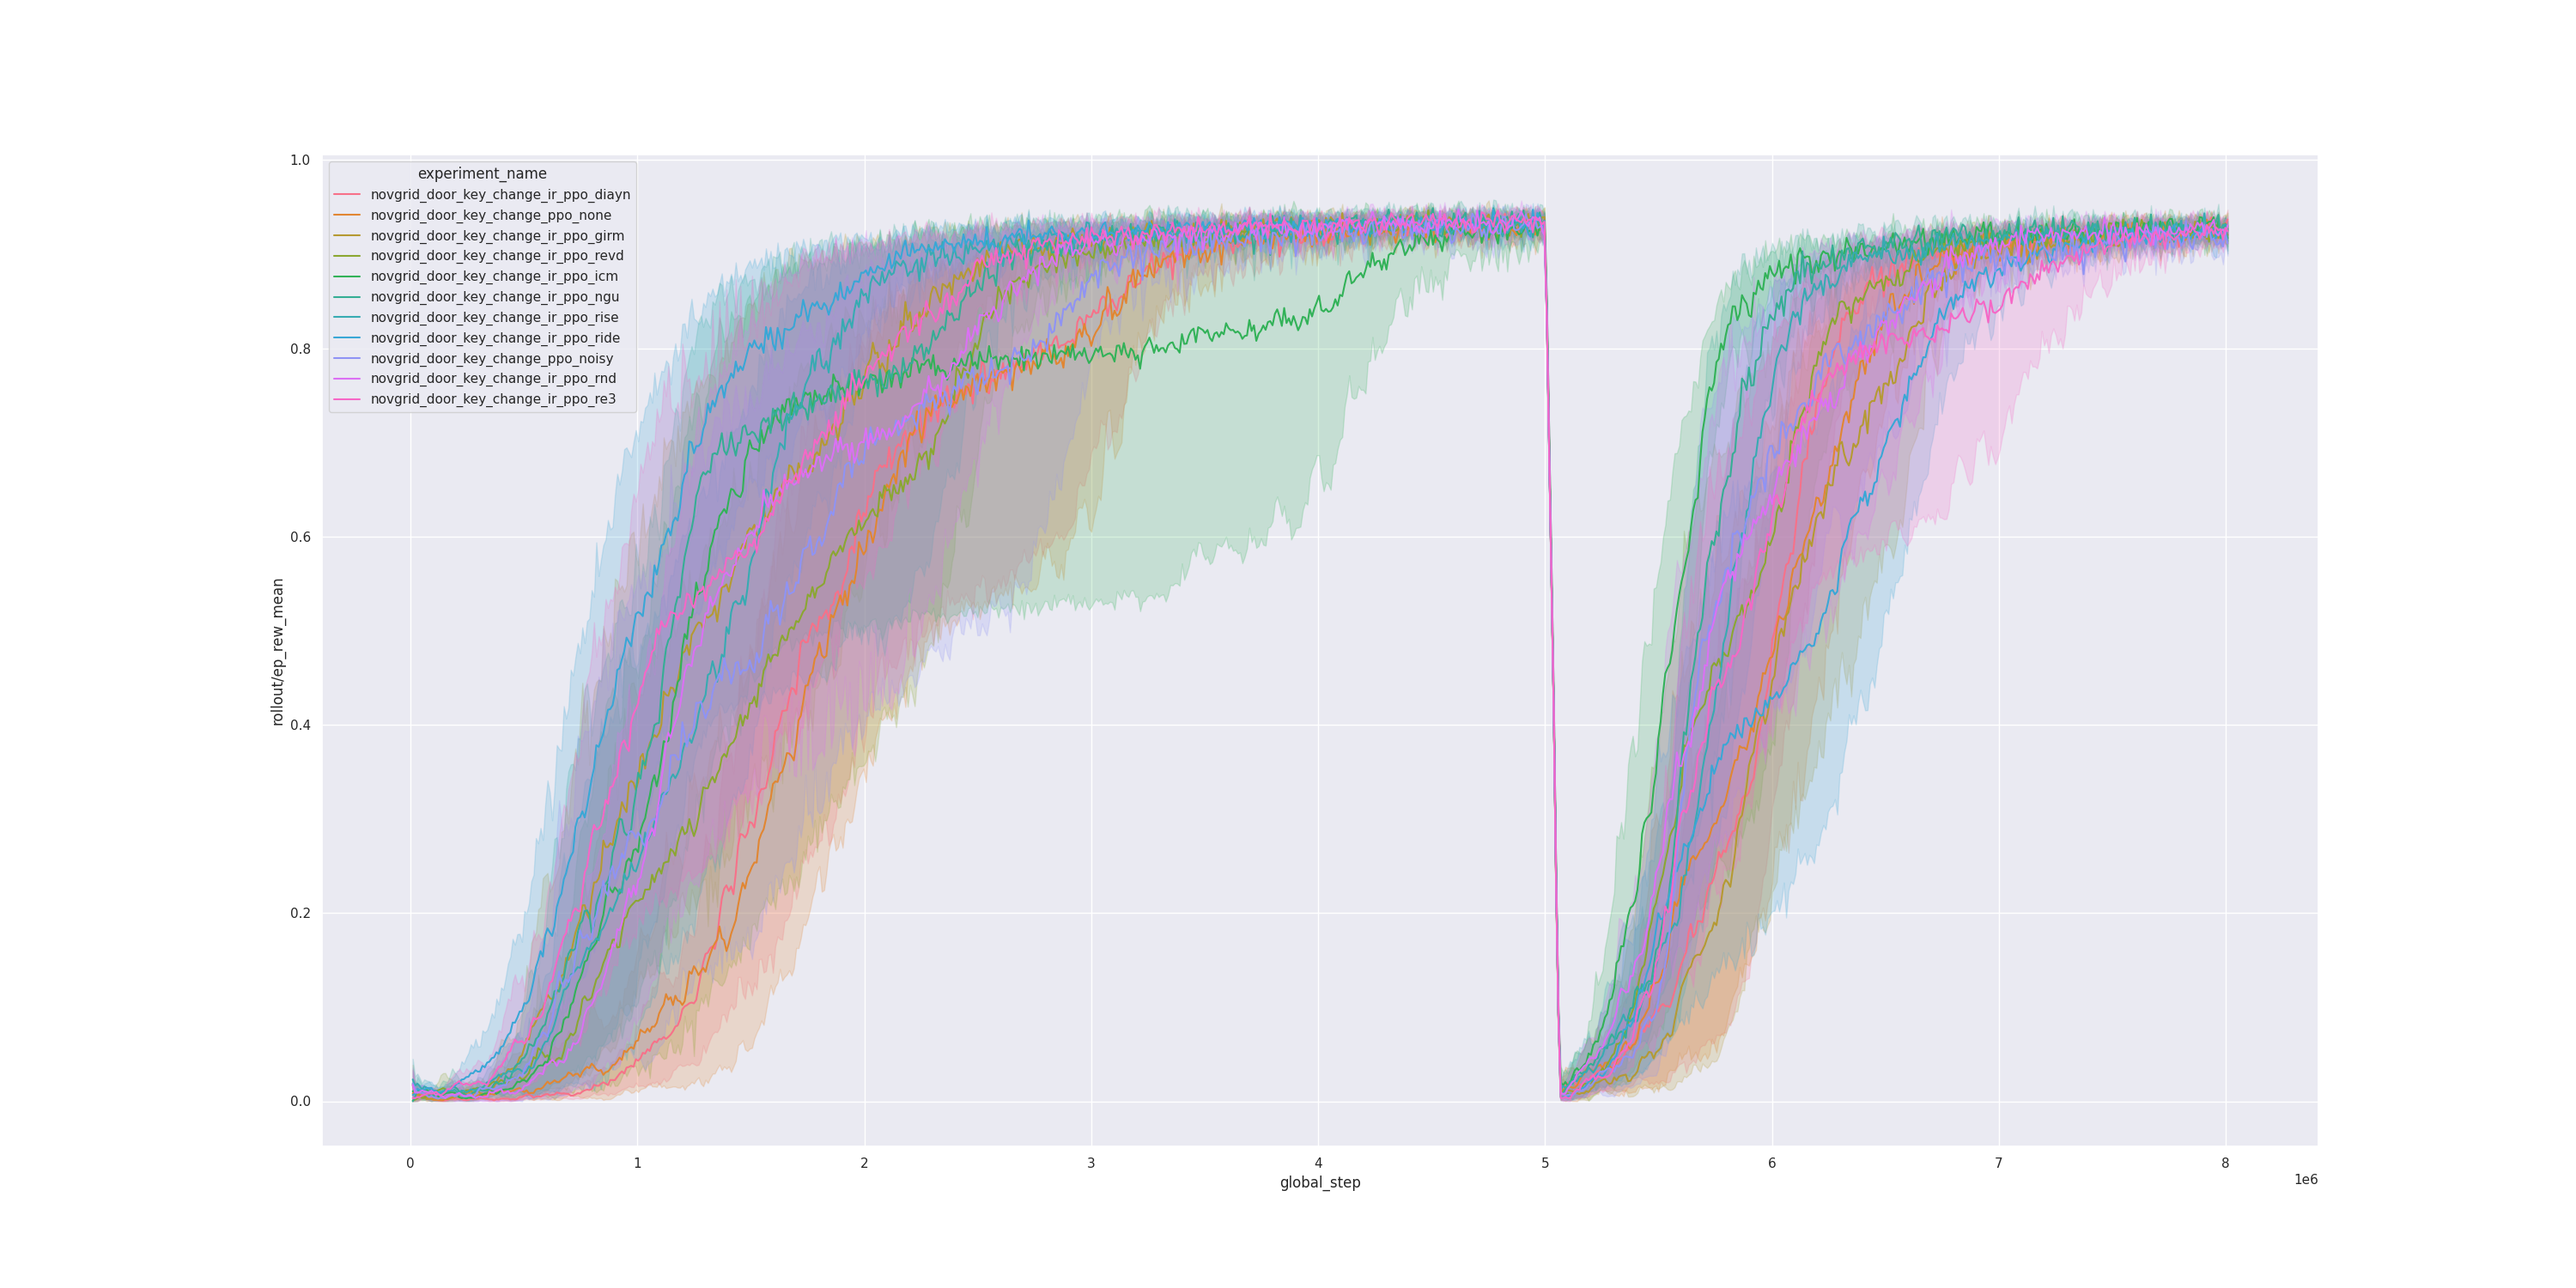
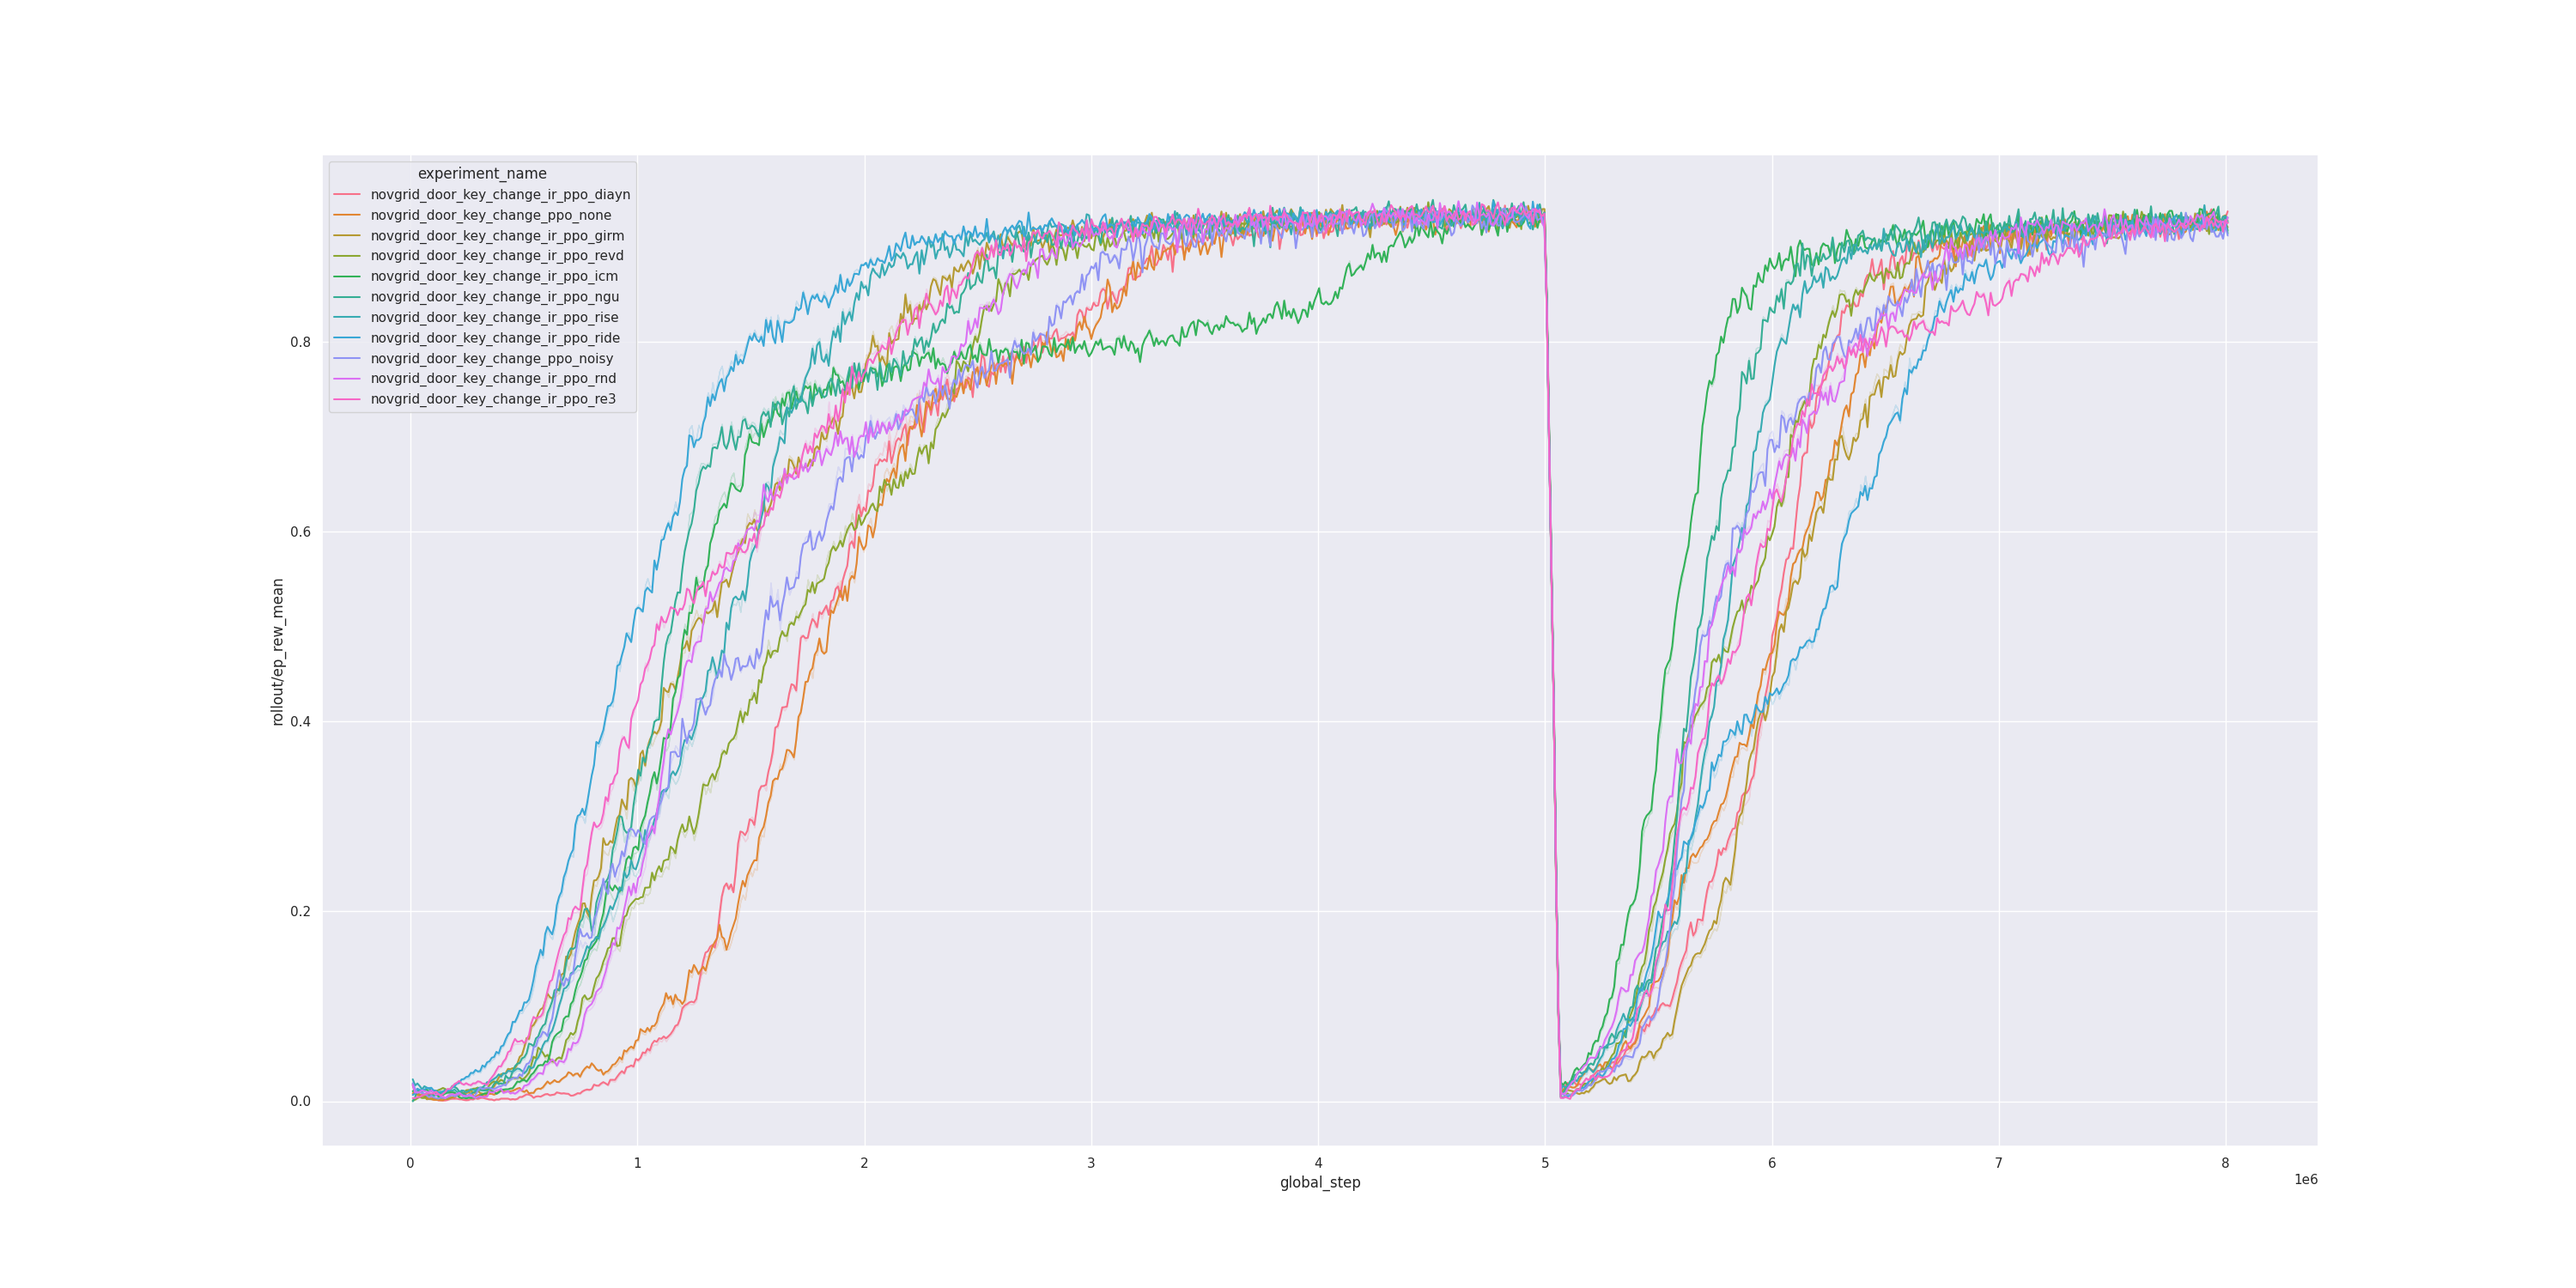
generated individual plots

Changed region(s): [[0.155, 0.1533, 0.62, 0.8587], [0.589, 0.1533, 0.868, 0.8587]]

diff --git a/experiments/plot_data.py b/experiments/plot_data.py
@@ -6,10 +6,10 @@ parent_dir_path = os.path.abspath(os.path.join(curren_dir_path, os.pardir))
 sys.path.append(parent_dir_path)
 
 import argparse
-import wandb
 import tqdm
 import pandas as pd
 import seaborn as sns
+import matplotlib.pyplot as plt
 
 sns.set_theme(style="darkgrid", rc={"figure.figsize": (30, 15)})
 
@@ -17,6 +17,7 @@ sns.set_theme(style="darkgrid", rc={"figure.figsize": (30, 15)})
 from utils.arg_types import str2bool, tup
 from utils.args import get_args
 from config import WANDB_PROJECT_NAME
+from experiments.wandb_run_data import get_api_instance
 
 ENV_CONFIGS_FILE = "door_key_change"
 N_TASKS = 2
@@ -131,7 +132,7 @@ def make_parser():
 
 def load_data(args: argparse.Namespace) -> pd.DataFrame:
 
-    api = wandb.Api()
+    api = get_api_instance()
 
     wandb_runs = api.runs(
         args.wandb_project_name,
@@ -201,10 +202,23 @@ def visualize_data(args: argparse.Namespace, df: pd.DataFrame) -> None:
         y="rollout/ep_rew_mean",
         hue="experiment_name",
         data=df,
-        errorbar=make_error_bar_arg(args.error_bar_type, args.error_bar_arg),
+        errorbar=make_error_bar_arg(args.error_bar_type, 0),
         estimator=args.estimator,
     )
     plot.figure.savefig(f"figures/{args.img_name}")
+    plt.close()
+
+    for experiment_name_idx in set(df.index.get_level_values("experiment_name_idx")):
+        plot = sns.lineplot(
+            x="global_step",
+            y="rollout/ep_rew_mean",
+            hue="experiment_name",
+            data=df.loc[experiment_name_idx],
+            errorbar=make_error_bar_arg(args.error_bar_type, args.error_bar_arg),
+            estimator=args.estimator,
+        )
+        plot.figure.savefig(f"figures/{experiment_name_idx}_{args.img_name}")
+        plt.close()
 
 
 def main(args):
